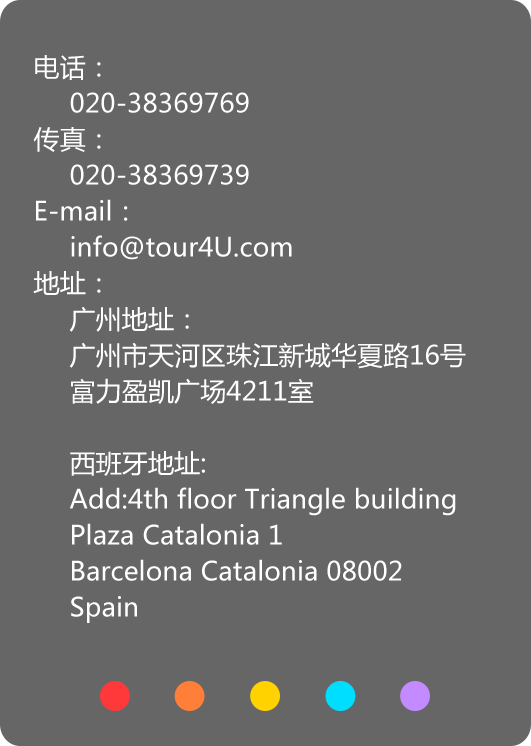
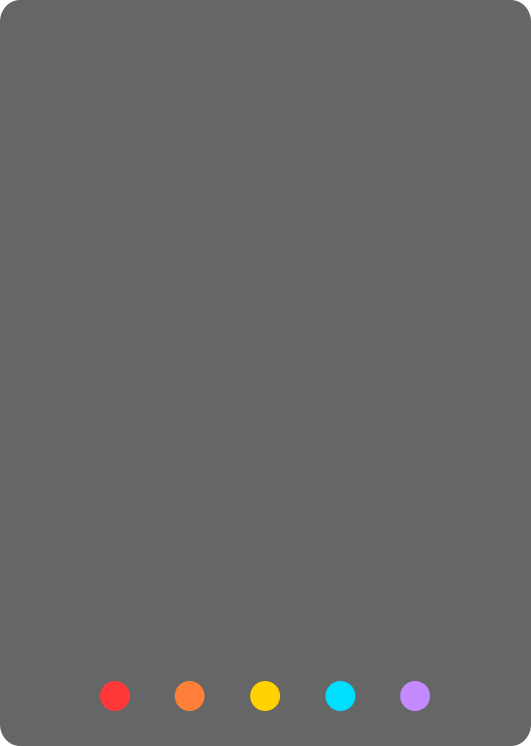
最后一页文字 done

Changed region(s): [[0.0603, 0.0617, 0.8738, 0.555], [0.1205, 0.5858, 0.8738, 0.8324]]

diff --git a/Tour4Umobile/css/index.css b/Tour4Umobile/css/index.css
@@ -1,7 +1,7 @@
 html {
 	/*将页面分为 100 份，1份 为 px，1rem 为 10份即 px */
 	/* font-size 为 75 px, 即 1rem 为 75 px */
-	font-size: 75px !important;
+	/*font-size: 75px !important;*/
 	height: 100%;
 }
 body {
@@ -13,7 +13,7 @@ body {
 	background-size: cover;
 }
 .fp-slidesNav {
-	margin-left: -110px !important;
+	/*margin-left: -110px !important;*/
 }
 .fp-slidesNav ul li a span {
 	border: none;
@@ -223,6 +223,41 @@ body {
 	height: 100%;
 	background: url(../img/0.shouye/04.png) no-repeat;
 	background-size: cover;
+}
+.tel {
+	margin: 0 auto;
+	padding: 15px;
+	width: 80%;
+	height: 70%;
+	background: url(../img/0.shouye/tel-text.png) no-repeat;
+	background-size: 100% 100%;
+	color: #fff;
+	font-size: 20px;
+	font-family: "Microsoft YaHei";
+}
+@media screen and (max-height: 670px) {
+	.tel {
+		height: 80%;
+	}
+}
+@media screen and (max-height: 640px) {
+	.tel {
+		height: 80%;
+	}
+}
+@media screen and (max-height: 568px) {
+	.tel {
+		font-size: 16px;
+	}
+}
+.tel p:nth-child(even) {
+	text-indent: 0.666667rem;
+}
+.tel p:nth-child(7) ~ p {
+	text-indent: 0.666667rem;
+}
+.tel p:nth-child(11) {
+	margin-top: 20px;
 }
 /*fadeInLeft 动画*/
 @-webkit-keyframes fadeInLeft {

diff --git a/Tour4Umobile/index.html b/Tour4Umobile/index.html
@@ -79,7 +79,25 @@
 	</div>
 
 	<div class="inf slide" id="inf-slide">
-		<img src="img/0.shouye/tel-text.png" alt="" id="inf-show">
+		<div class="tel">
+			<p>电话:</p>
+			<p>020-38369769</p>
+			<p>传真:</p>
+			<p>020-38369739</p>
+			<p>E-mail:</p>
+			<p>info@tour4U.com</p>
+			<p>地址:</p>
+			<p>广州地址:</p>
+			<p>广州市天河区珠江新城华夏路16号</p>
+			<p>富力盈凯广场4211室</p>            
+			<p>西班牙地址:</p>
+			<p>Add:4th floor Triangle building</p>
+			<p>Plaza Catalonia 1</p>
+			<p>Barcelona Catalonia 08002</p>
+			<p>Spain</p>
+
+		</div>
+		<!-- <img src="img/0.shouye/tel-text.png" alt="" id="inf-show"> -->
 	</div>
 	
 	<script src="js/jquery-1.9.1.min.js"></script>
